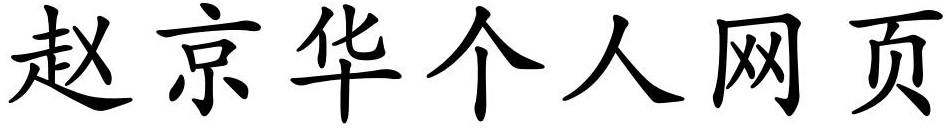
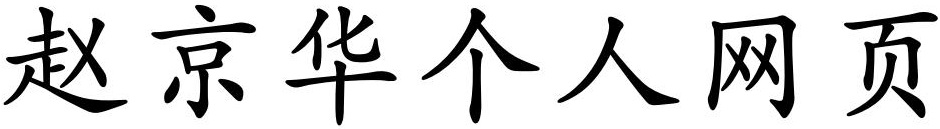
docs

diff --git a/docs/about.md b/docs/about.md
@@ -26,7 +26,7 @@ titles:
 key: page-about
 ---
 
-[<img src="name.svg" height="180" width="300"/>](name.svg)
+[<img src="name.svg"/>](name.svg)
 
 I am a scientist at the [Cardiovascular Epidemiology Unit](https://www.phpc.cam.ac.uk/people/ceu-group/ceu-research-staff/) (CEU), following positions at MRC 
 Epidemiology Unit (2005-18, [people](http://www.mrc-epid.cam.ac.uk/people/jing-hua-zhao/)), [University College London](http://www.ucl.ac.uk/) 
